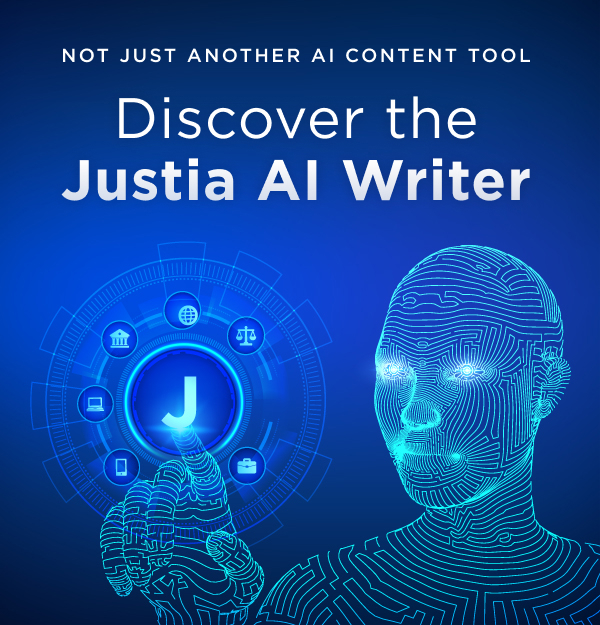
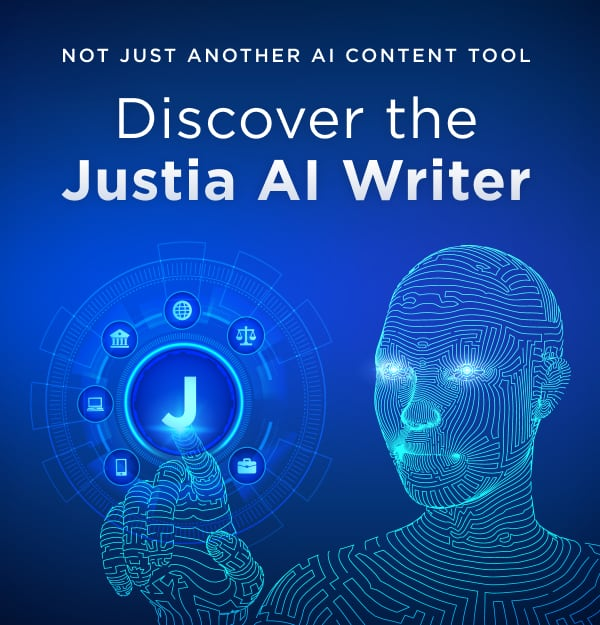
refactor: image update
ticket: https://app.clickup.com/t/86aybkhwc

diff --git a/dist/elevate-monthly-blast-september-2023.html b/dist/elevate-monthly-blast-september-2023.html
@@ -167,13 +167,13 @@
           <table border="0" cellpadding="0" cellspacing="0" align="center" width="100%" style="max-width:600px;margin:0 auto;border-bottom:1px solid #efefef" bgcolor="#fff">
             <tr>
               <td style="padding:0" align="center">
-                <a href target="_blank" style="color:#00b3e3;text-decoration:none"><img src="https://justatic.com/v/1/emails/images/elevate/2023/09/elevate-banner-text-01.jpg" alt border="0" style="display:block;max-width:100%"/></a>
+                <a href target="_blank" style="color:#00b3e3;text-decoration:none"><img src="https://justatic.com/v/2/emails/images/elevate/2023/09/elevate-banner-text-01.jpg" alt border="0" style="display:block;max-width:100%"/></a>
               </td>
             </tr>
           </table>
           <table border="0" cellpadding="0" cellspacing="0" align="center" width="100%" style="max-width:600px;margin:0 auto;border-bottom:1px solid #efefef" bgcolor="#fff">
             <tr>
-              <td class="justia01 justia03" style="text-transform:capitalize;padding:50px 30px 25px;color:#06357a" align="center"><a href target="_blank" class="justia04" style="text-decoration:none;color:#06357a;font:700 22px/1.25 Arial,sans-serif;display:block;padding:0 0 15px;background:url(https://justatic.com/v/1/emails/images/elevate/2023/09/line-decoration-01.jpg) no-repeat center bottom">What Sets Justia AI Writer Apart</a></td>
+              <td class="justia01 justia03" style="text-transform:capitalize;padding:50px 30px 25px;color:#06357a" align="center"><a href target="_blank" class="justia04" style="text-decoration:none;color:#06357a;font:700 22px/1.25 Arial,sans-serif;display:block;padding:0 0 15px;background:url(https://justatic.com/v/2/emails/images/elevate/2023/09/line-decoration-01.jpg) no-repeat center bottom">What Sets Justia AI Writer Apart</a></td>
             </tr>
             <tr>
               <td class="justia05 justia06 justia07" style="padding:0 50px 25px" align="left">
@@ -186,7 +186,7 @@
                   <tr>
                     <td class="justia09 justia10 justia11 justia12" align="center">
                       <div class="justia09 justia10 justia13 justia11 justia12" style="display:inline-block;text-align:left;vertical-align:middle;max-width:80%;width:74px;padding:0 25px 0 0;float:none">
-                        <a href target="_blank" style="color:#00b3e3;text-decoration:none"><img src="https://justatic.com/v/1/emails/images/elevate/2023/09/icon-01.png" alt="What Sets Justia AI Writer Apart" class="justia09" border="0" style="display:block;max-width:100%" width="74"/></a>
+                        <a href target="_blank" style="color:#00b3e3;text-decoration:none"><img src="https://justatic.com/v/2/emails/images/elevate/2023/09/icon-01.png" alt="What Sets Justia AI Writer Apart" class="justia09" border="0" style="display:block;max-width:100%" width="74"/></a>
                       </div>
                     </td>
                     <td class="justia14 justia15" style="display:table-cell;float:none;max-width:100%" width="80%" align="left" valign="middle">
@@ -204,7 +204,7 @@
                   <tr>
                     <td class="justia09 justia10 justia11 justia12" align="center">
                       <div class="justia09 justia10 justia13 justia11 justia12" style="display:inline-block;text-align:left;vertical-align:middle;max-width:80%;width:74px;padding:0 25px 0 0;float:none">
-                        <a href target="_blank" style="color:#00b3e3;text-decoration:none"><img src="https://justatic.com/v/1/emails/images/elevate/2023/09/icon-02.png" alt="What Sets Justia AI Writer Apart" class="justia09" border="0" style="display:block;max-width:100%" width="74"/></a>
+                        <a href target="_blank" style="color:#00b3e3;text-decoration:none"><img src="https://justatic.com/v/2/emails/images/elevate/2023/09/icon-02.png" alt="What Sets Justia AI Writer Apart" class="justia09" border="0" style="display:block;max-width:100%" width="74"/></a>
                       </div>
                     </td>
                     <td class="justia14 justia15" style="display:table-cell;float:none;max-width:100%" width="80%" align="left" valign="middle">
@@ -222,7 +222,7 @@
                   <tr>
                     <td class="justia09 justia10 justia11 justia12" align="center">
                       <div class="justia09 justia10 justia13 justia11 justia12" style="display:inline-block;text-align:left;vertical-align:middle;max-width:80%;width:74px;padding:0 25px 0 0;float:none">
-                        <a href target="_blank" style="color:#00b3e3;text-decoration:none"><img src="https://justatic.com/v/1/emails/images/elevate/2023/09/icon-03.png" alt="What Sets Justia AI Writer Apart" class="justia09" border="0" style="display:block;max-width:100%" width="74"/></a>
+                        <a href target="_blank" style="color:#00b3e3;text-decoration:none"><img src="https://justatic.com/v/2/emails/images/elevate/2023/09/icon-03.png" alt="What Sets Justia AI Writer Apart" class="justia09" border="0" style="display:block;max-width:100%" width="74"/></a>
                       </div>
                     </td>
                     <td class="justia14 justia15" style="display:table-cell;float:none;max-width:100%" width="80%" align="left" valign="middle">
@@ -240,7 +240,7 @@
                   <tr>
                     <td class="justia09 justia10 justia11 justia12" align="center">
                       <div class="justia09 justia10 justia13 justia11 justia12" style="display:inline-block;text-align:left;vertical-align:middle;max-width:80%;width:74px;padding:0 25px 0 0;float:none">
-                        <a href target="_blank" style="color:#00b3e3;text-decoration:none"><img src="https://justatic.com/v/1/emails/images/elevate/2023/09/icon-04.png" alt="What Sets Justia AI Writer Apart" class="justia09" border="0" style="display:block;max-width:100%" width="74"/></a>
+                        <a href target="_blank" style="color:#00b3e3;text-decoration:none"><img src="https://justatic.com/v/2/emails/images/elevate/2023/09/icon-04.png" alt="What Sets Justia AI Writer Apart" class="justia09" border="0" style="display:block;max-width:100%" width="74"/></a>
                       </div>
                     </td>
                     <td class="justia14 justia15" style="display:table-cell;float:none;max-width:100%" width="80%" align="left" valign="middle">
